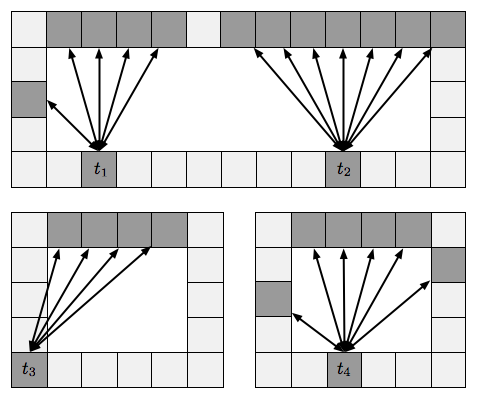
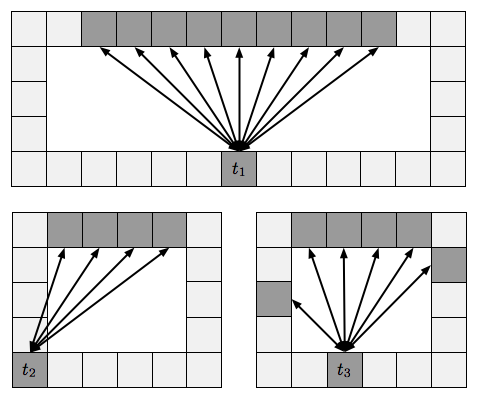
First draft describing new perimeter connection method. Shortened empty_rooms a little.

diff --git a/papers/perimeter_search/empty_rooms.tex b/papers/perimeter_search/empty_rooms.tex
@@ -1,30 +1,34 @@
-\section{Breaking Symmetries in 4-connected Grid Maps}
+\section{Breaking Symmetries in 4-connected Grids}
 Symmetry is an undesirable characteristic in a search space because it forces
 search algorithms to evaluate many identical states and prevents real progress toward the goal.
 \par
 A recent method for breaking path symmetries in 4-connected grid maps is described in \cite{harabor10}.
-That work relies on an Empty Rooms decomposition which prunes tiles from a grid map and, in the process, 
-also eliminates symmetric path segments. 
-We gave an example of this approach in Figure \ref{fig-overview}; we now provide a more detailed overview
-as the technique is central to the remainder of this paper.
+That work relies on an offline Empty Rooms decomposition to prune from a grid map tiles which lie on 
+symmetric path segments.
+We briefly exemplified the approach in Figure \ref{fig-overview} but will now provide a more detailed overview
+due to its central importance for the remainder of this paper.
 The algorithm proceeds as follows:
 \begin{enumerate}
 \item{Decompose the grid map into a series of empty rooms, rectangular in shape, which are free of any obstacles.}
-\item{Prune all tiles from the interior of each room, leaving only a small set to form a boundary perimeter.} 
+\item{Prune all tiles from the interior of each room, leaving only a small set of tiles to form a boundary perimeter.} 
 \item{Add a series of \emph{macro edges} to connect each tile on the perimeter with another tile on the directly opposite side
-of the room. 
-The cost of each edge is equal to the Manhattan distance between its endpoints.}
+of the room. }
+%The cost of each edge is equal to the Manhattan distance between its endpoints.}
 \end{enumerate}
 To handle cases when the start or goal location is a tile which has been previously pruned, a simple constant-time
-re-insertion procedure is used. 
+procedure is used to re-insert tiles back into the map for the duration of the search.
+The newly inserted tile is then connected to the closest tile on each side of its room's perimeter.
+%The newly inserted tile is connected to the rest of the map by adding edges between it and the closest tile on each of the 4 sides 
+%of its room's perimeter.
+
 %There are two distinct cases to consider: the first is when the start and goal are in the same room;
 %the second is when they are in different rooms.
-\begin{enumerate}
-\item{If both the start and goal are in the same room no insertion is necessary.
-The length of the optimal path is equal to the Manhattan distance between the two locations.}
-\item{If the start and goal are in different rooms, add an extra node into the graph to represent each one.
-Then, connect each newly inserted node to the closest node on each of the 4 sides of the room's perimeter.}
-\end{enumerate}
+%\begin{enumerate}
+%\item{If both the start and goal are in the same room no insertion is necessary.
+%The length of the optimal path is equal to the Manhattan distance between the two locations.}
+%\item{If the start and goal are in different rooms, add an extra node into the graph to represent each one.
+%Then, connect each newly inserted node to the closest node on each of the 4 sides of the room's perimeter.}
+%\end{enumerate}
 From here it is a simple matter to show that for any optimal length path which exists in the original, unmodified, grid
 map, there is at least one equivalent length path in the pruned grid map. 
 In the next section we will adapt this technique to 8-connected grid maps. 

diff --git a/papers/perimeter_search/8c_gridmaps.tex b/papers/perimeter_search/8c_gridmaps.tex
@@ -1,0 +1,40 @@
+\section{Breaking Symmetries in 8-connected Grids}
+Consider a path which enters an empty room $R$ at some perimeter node $m$ and exits at some other
+node $n$ located on the opposite side of the room.
+On a 4-connected map we can optimally traverse the room by expanding $m$, following
+its macro edge to a node $m'$ on the opposite side of $R$ and finally navigating from $m'$ to $n$.
+The length of this path is equal to the Manhattan distance between $m$ and $n$ and thus optimal.
+However, if the map consists of 8-connected tiles this strategy is no longer optimal.
+In particular, the original (unmodified) map may contain a more direct path to $n$ using one or more diagonal
+transtions.
+\par
+We will address this problem by adding to $R$ a series of additional macro edges that will facilitate optimal
+traversal between any arbitrary pair of tiles on the perimeter.
+Our method (the results of which we highlight in Figure \ref{fig-fan}) is simple
+
+\begin{enumerate}
+\item{For each tile $m \in R$ identify $\Gamma_{m}$, a minimum set of perimeter tiles where 
+each $n \in \Gamma_{m}$ can be reached from $m$ by a path involving one or more diagonal transitions.}
+\item{Add an edge connecting $m$ to each $n \in \Gamma_{m}$ where the weight of each edge is equal to the 
+octile distance between $m$ and $n$.}
+\end{enumerate}
+There are many ways to compute $\Gamma_{m}$.
+Conceptually, the simplest method is to compute a non-dominated
+set of paths, each of which contains at least one diagonal transition, between $m$ and every perimeter tile $n$.
+We say that a path $\pi_{m, n}$ dominates another $\pi_{m, p}$ if $\pi_{m, n} + \pi_{n, p} \leq \pi_{m, p}$.
+\par
+It is easy to see that our method preserves optimality: when traversing from some perimeter node $m$ to any other
+perimeter node $n$ we can either follow a macro edge at $m$ and reach $n$ directly (if such an edge exists) 
+or else follow a different macro edge to an intermediate node $m'$ which is on the same side of the perimeter as $n$.
+Since the path from $m$ to $m'$ involves a maximum number of diagonal steps the total distance from $m$ to $m'$ and
+finally to $n$ is equal to the octile distance between $m$ and $n$ and thus optimal. 
+
+
+\begin{figure}[tb]
+       \begin{center}
+                       \includegraphics[scale=0.5, trim = 10mm 10mm 10mm 0mm]{diagrams/fan.png}
+       \end{center}
+	\vspace{-3pt}
+       \caption{Some examples.}
+       \label{fig-fan}
+\end{figure}

diff --git a/papers/perimeter_search/article.tex b/papers/perimeter_search/article.tex
@@ -38,6 +38,7 @@ Email: firstname.lastname@nicta.com.au
 \input introduction
 \input relatedwork
 \input empty_rooms
+\input 8c_gridmaps
 \input branching_factor
 \input optimality
 \input setup
